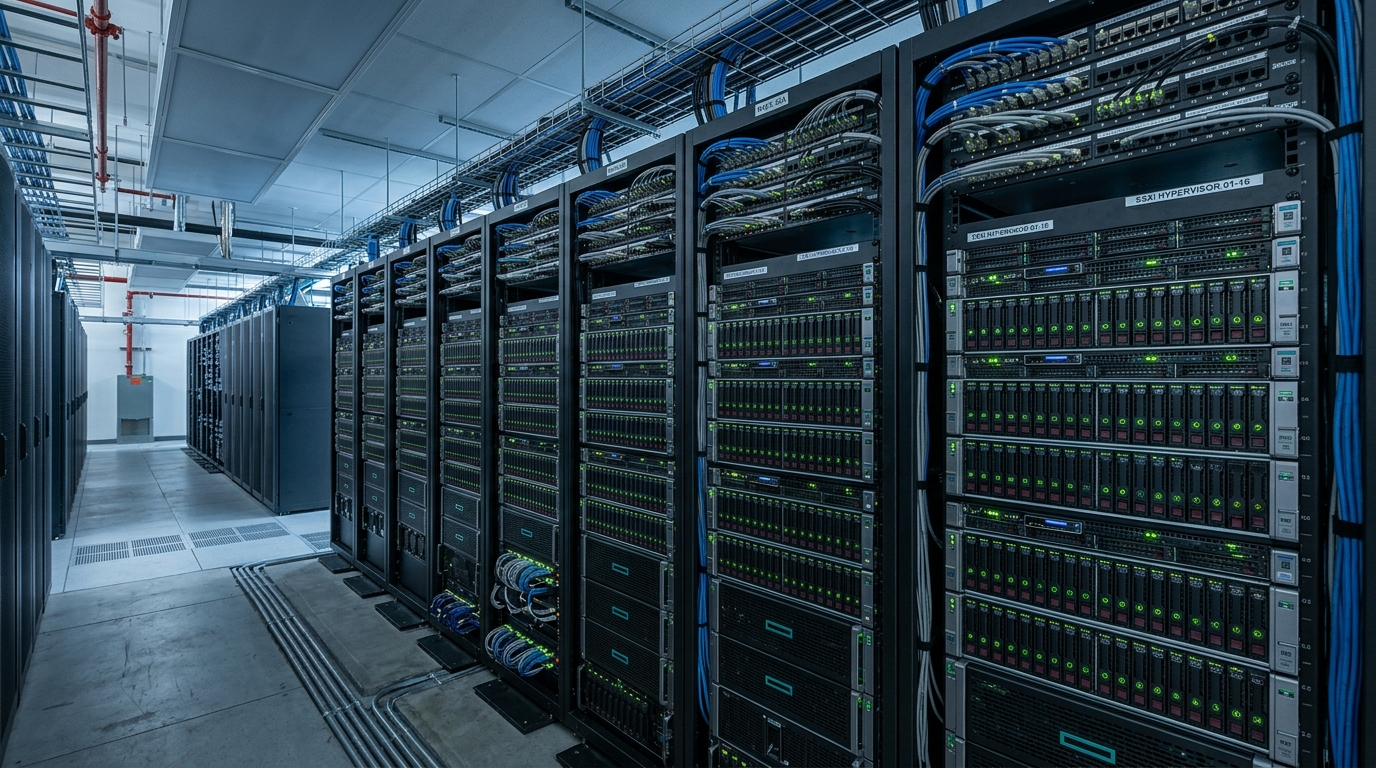
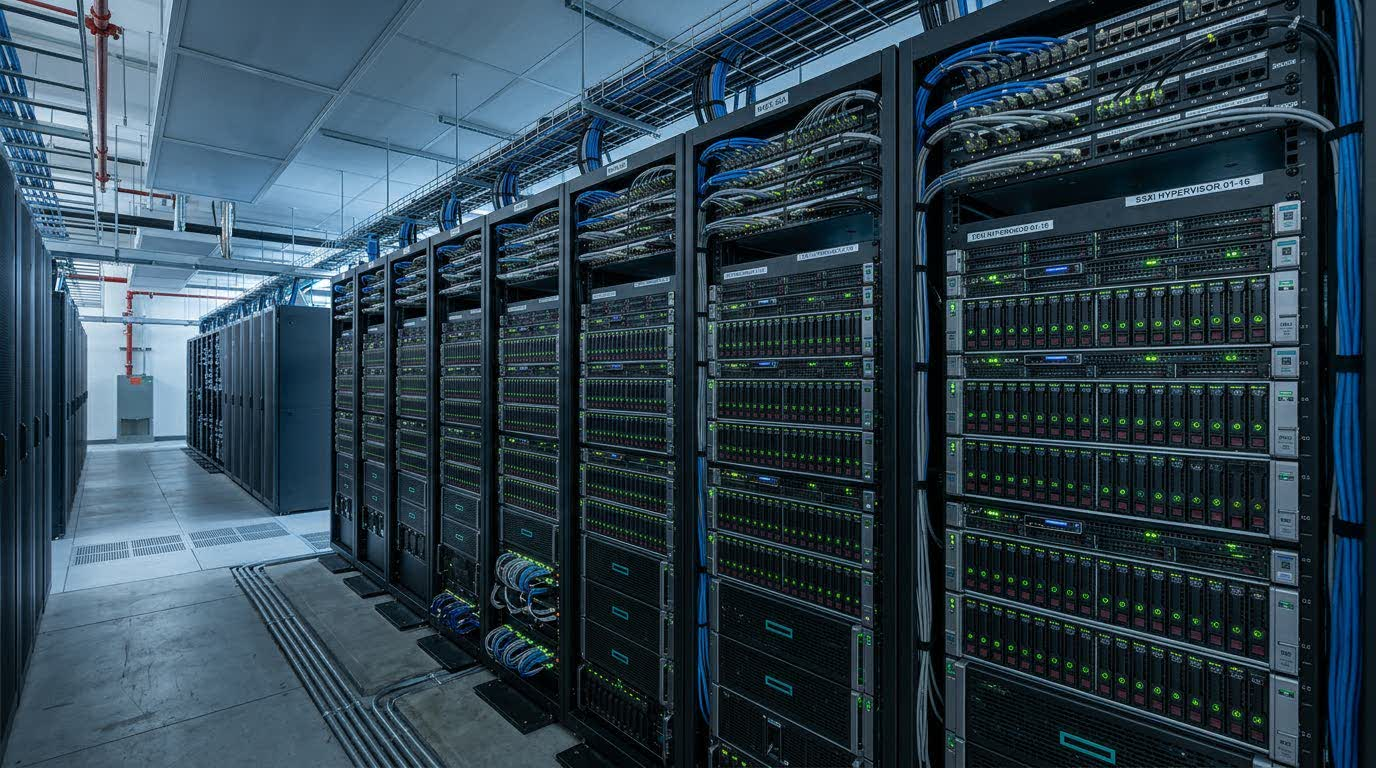
feat(assets): import official partner marks, document provenance, and optimize photography under performance budget

diff --git a/docs/ASSET_PROVENANCE.md b/docs/ASSET_PROVENANCE.md
@@ -29,16 +29,16 @@ This document tracks the origin, legal classification, ownership status, and app
 
 The previously generated synthetic partner SVGs were removed from `public/images/partners/` during the canonical partner-domain correction. No third-party logo is currently rendered as an official logo unless a future record has both `logoStatus: approved` and `logoApproved: true`.
 
-| Partner | Canonical Domain | Official Asset Source | Asset Imported? | Usage Approval | Production Treatment |
-|:---|:---|:---|:---:|:---:|:---|
-| **FastNetMon** | https://fastnetmon.com/ | https://fastnetmon.com/fastnetmon-brand-kit/ | No | Pending | Text-only mark |
-| **Gcore** | https://gcore.com/ | https://gcore.com/media-kit | No | Pending | Text-only mark |
-| **StormWall** | https://stormwall.network/ | Official corporate website / partner materials | No | Pending | Text-only mark |
-| **Zenlayer** | https://www.zenlayer.com/ | Official corporate website / partner materials | No | Pending | Text-only mark |
-| **IPXO** | https://www.ipxo.com/ | https://www.ipxo.com/press-releases/ | No | Pending | Text-only mark |
-| **Vates** | https://vates.tech/ | Official corporate website / partner materials | No | Pending | Text-only mark |
-| **ITcare** | https://itcare.net/ | Official corporate website / partner materials | No | Pending | Text-only mark |
-| **Airframe** | https://www.airframe.ai/ | Official corporate website / partner materials | No | Pending | Text-only mark |
+| Partner | Canonical Domain | Official Asset Source | Local Asset | Asset Imported? | Usage Approval | Production Treatment |
+|:---|:---|:---|:---|:---:|:---:|:---|
+| **FastNetMon** | https://fastnetmon.com/ | https://fastnetmon.com/fastnetmon-brand-kit/ | `/images/partners/fastnetmon.png` | Yes (Brand Kit) | Pending Owner Sign-off | Text-only mark (Fallback active) |
+| **Gcore** | https://gcore.com/ | https://gcore.com/media-kit | `/images/partners/gcore.svg` | Yes (Media Kit) | Pending Owner Sign-off | Text-only mark (Fallback active) |
+| **StormWall** | https://stormwall.network/ | Official corporate website (`content2.stormwall.network`) | `/images/partners/stormwall.svg` | Yes (Official Vector) | Pending Owner Sign-off | Text-only mark (Fallback active) |
+| **Zenlayer** | https://www.zenlayer.com/ | Official corporate website (`zenlayer.com/wp-content`) | `/images/partners/zenlayer.svg` | Yes (Official Vector) | Pending Owner Sign-off | Text-only mark (Fallback active) |
+| **IPXO** | https://www.ipxo.com/ | https://www.ipxo.com/ | — | Sourcing Direct Kit | Pending Owner Sign-off | Text-only mark (Fallback active) |
+| **Vates** | https://vates.tech/ | https://vates.tech/en/about-vates/marketing-assets-and-brand-guidelines/ | `/images/partners/vates.png` | Yes (Official Brand Kit) | Pending Owner Sign-off | Text-only mark (Fallback active) |
+| **ITcare** | https://itcare.net/ | Official corporate website (`itcare.net/wp-content`) | `/images/partners/itcare.svg` | Yes (Official Vector) | Pending Owner Sign-off | Text-only mark (Fallback active) |
+| **Airframe** | https://www.airframe.ai/ | https://www.airframe.ai/ | — | Sourcing Direct Kit | Pending Owner Sign-off | Text-only mark (Fallback active) |
 
 `Supertrace` is not part of the owner-confirmed canonical partner list and its old synthetic asset has been removed.
 
